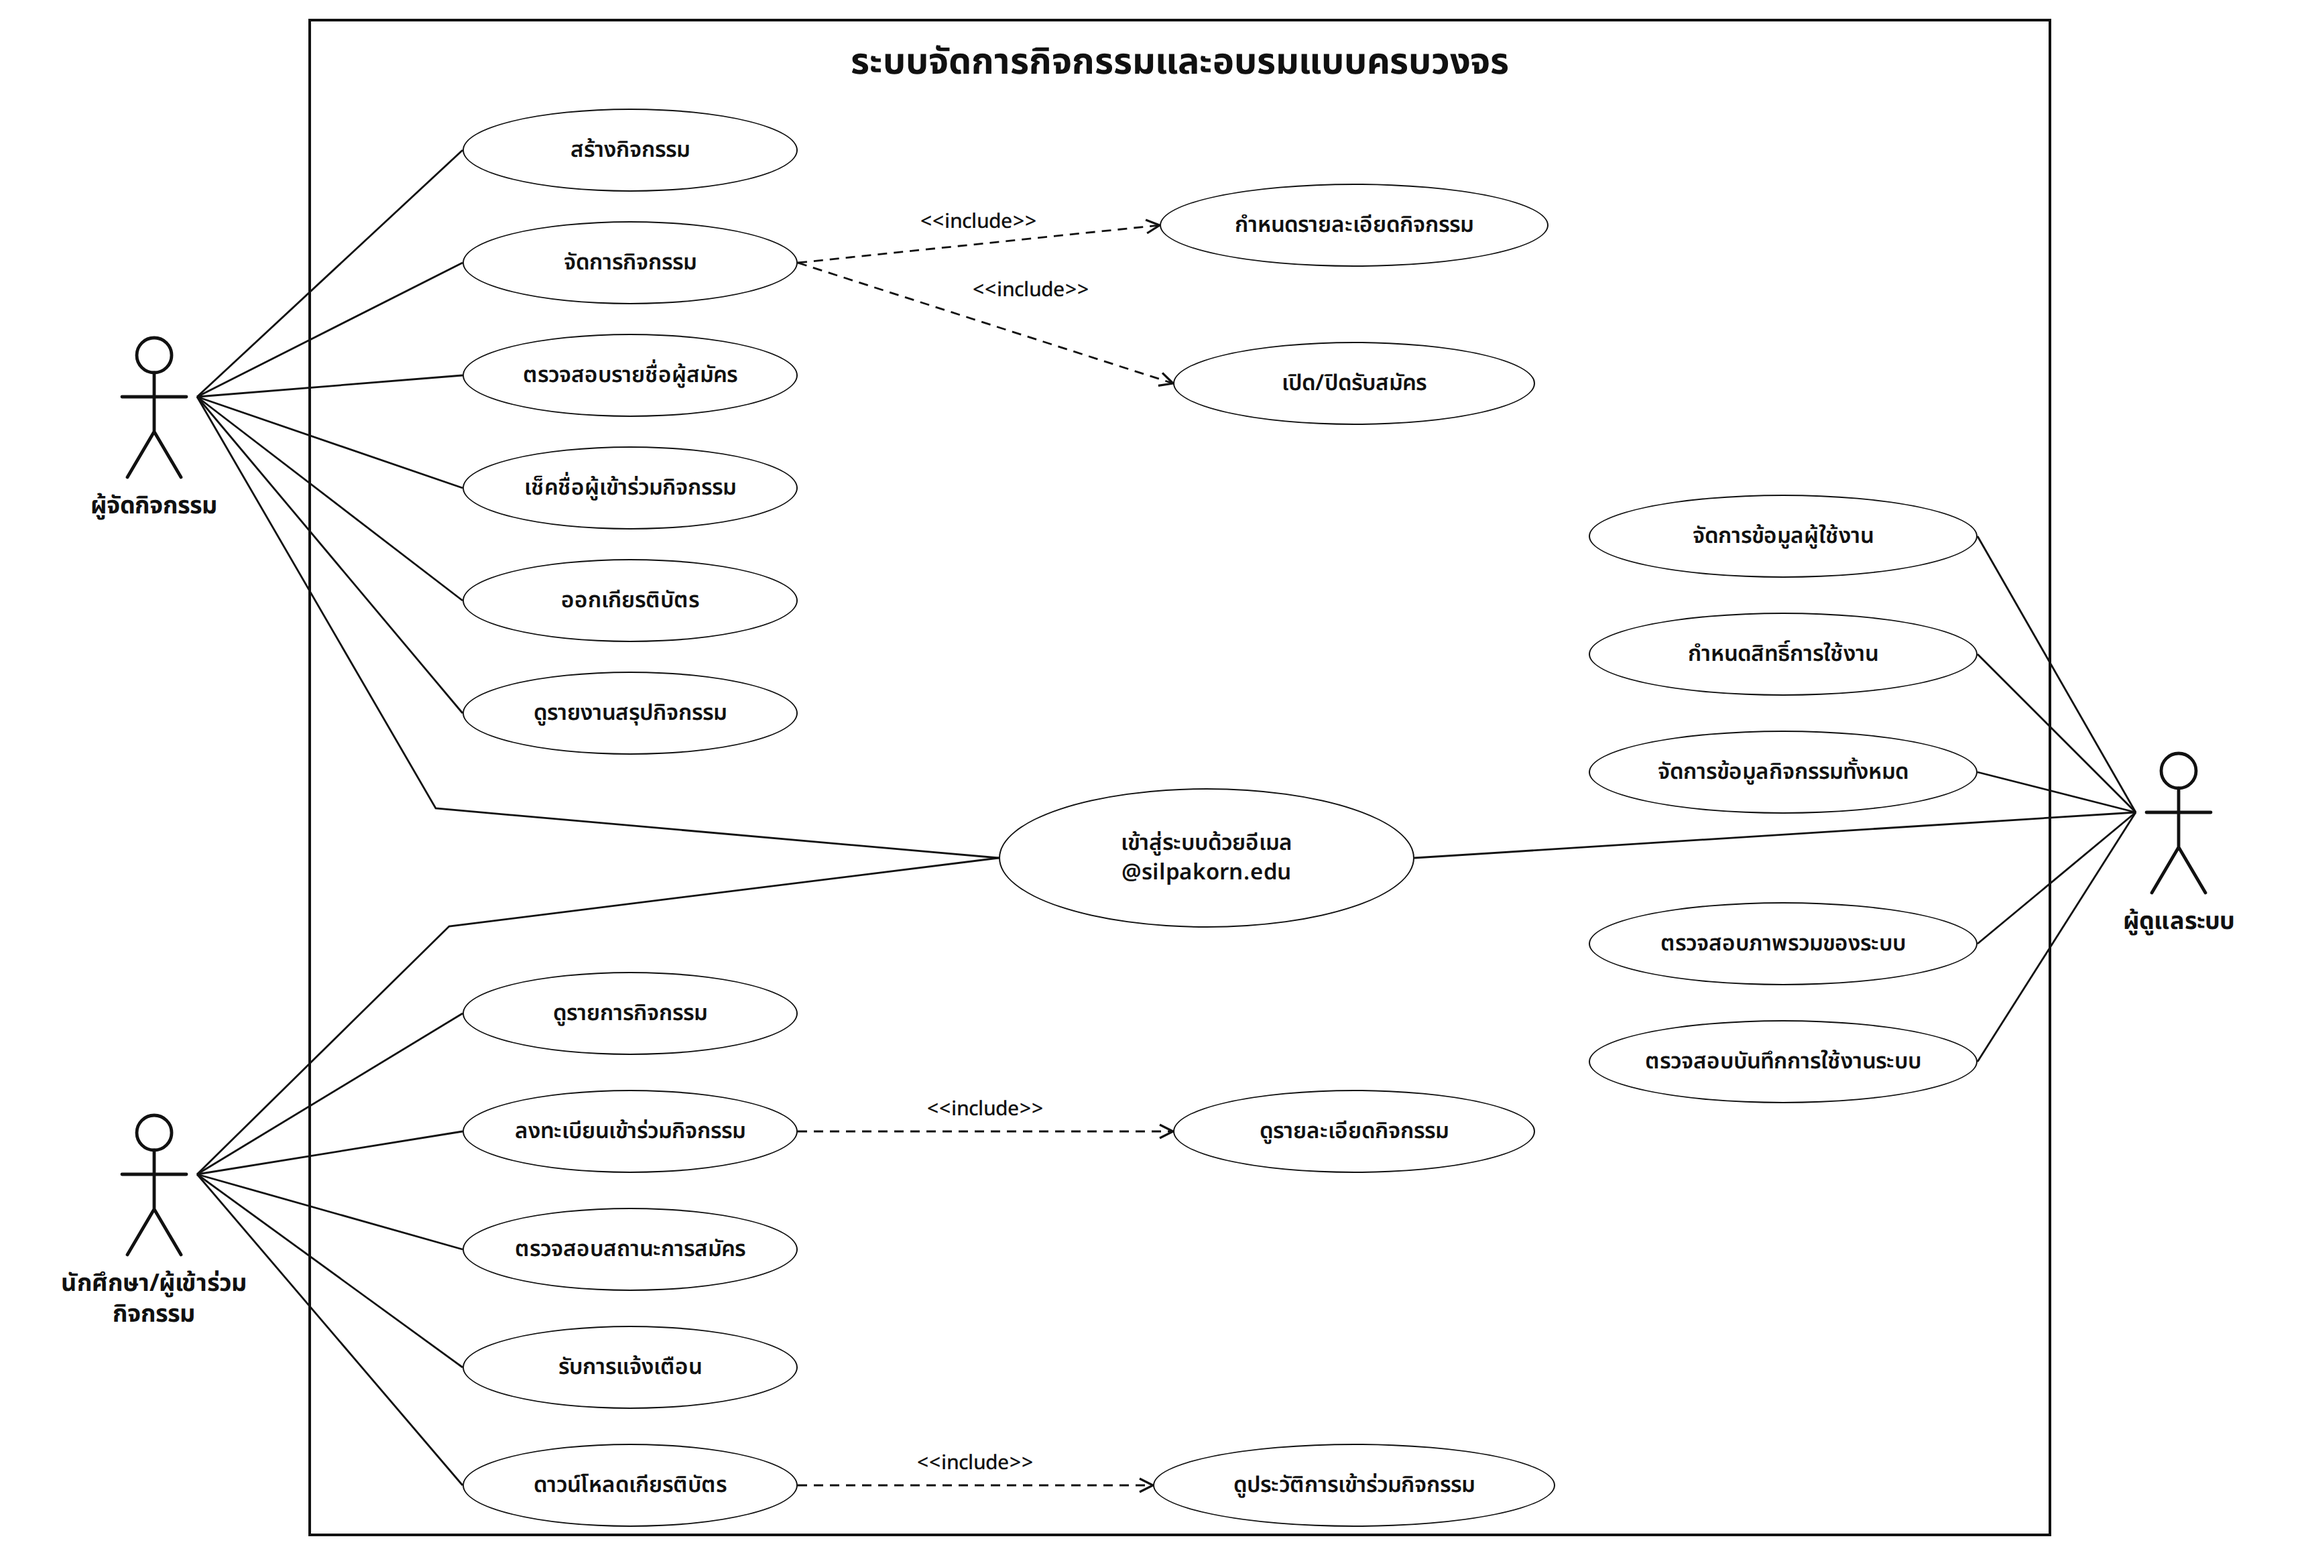
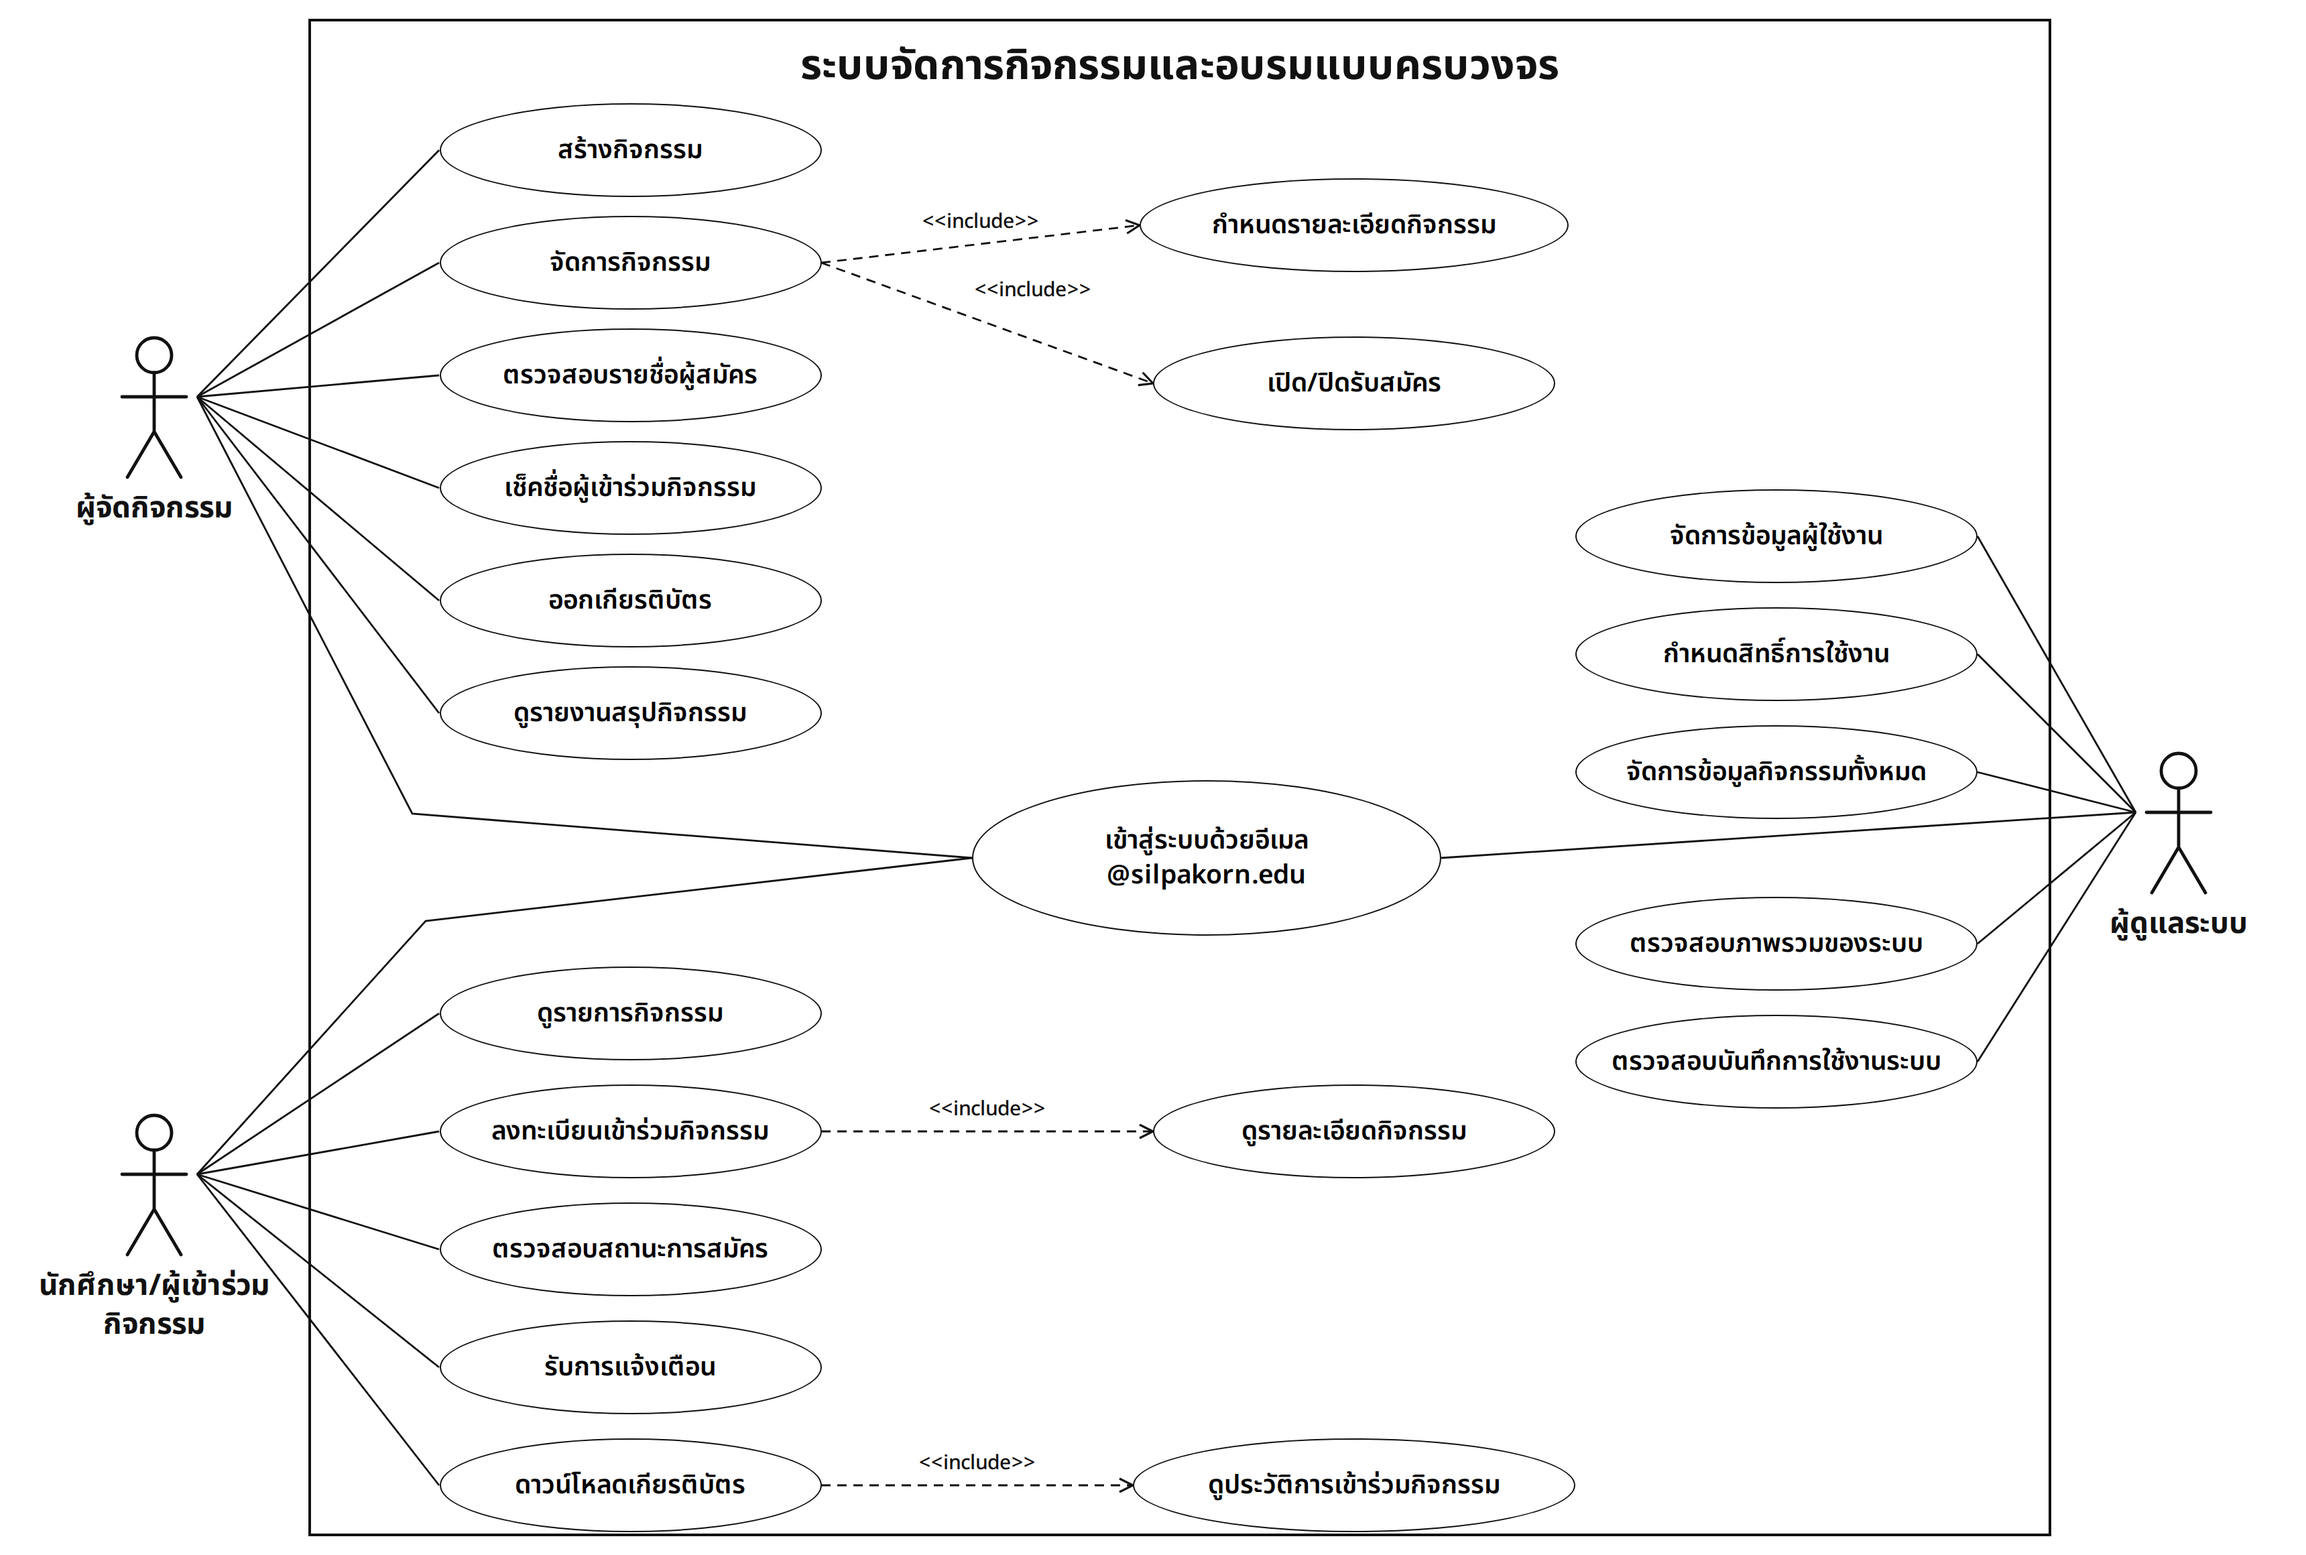
Use case diagram: text and ellipses sized like the report's original

diff --git a/docs/diagrams/src/use-case-simple.html b/docs/diagrams/src/use-case-simple.html
@@ -12,12 +12,12 @@
   .wires{position:absolute;inset:0;pointer-events:none;overflow:visible}
   .wire-label{font:500 15px 'Noto Sans Thai',sans-serif}
   .boundary{position:absolute;left:230px;top:14px;width:1300px;height:1132px;border:2px solid #111}
-  .boundary h2{position:absolute;left:0;right:0;top:10px;text-align:center;font-size:27px;font-weight:700}
+  .boundary h2{position:absolute;left:0;right:0;top:10px;text-align:center;font-size:31px;font-weight:700}
   .uc{position:absolute;display:flex;align-items:center;justify-content:center;text-align:center;border:1.6px solid #111;border-radius:50%;
-      background:#fff;font-size:16.5px;font-weight:600;line-height:1.35;padding:0 14px}
+      background:#fff;font-size:19.5px;font-weight:600;line-height:1.35;padding:0 14px;color:#000}
   .actor{position:absolute;width:190px;text-align:center}
   .actor svg{display:block;margin:0 auto}
-  .actor b{display:block;font-size:18px;margin-top:6px;font-weight:700;line-height:1.3}
+  .actor b{display:block;font-size:22px;margin-top:6px;font-weight:700;line-height:1.3}
 </style>
 </head>
 <body>
@@ -33,7 +33,7 @@
     C.insertAdjacentHTML('beforeend', `<div class="actor" id="${id}" style="left:${x}px;top:${y}px"><div class="fig">${STICK}</div><b>${name}</b></div>`);
   }
   // centre x, centre y, text, width, height
-  function uc(id, cx, cy, text, w = 250, h = 62) {
+  function uc(id, cx, cy, text, w = 285, h = 70) {
     C.insertAdjacentHTML('beforeend', `<div class="uc" id="${id}" style="left:${cx - w / 2}px;top:${cy - h / 2}px;width:${w}px;height:${h}px">${text}</div>`);
   }
 
@@ -43,18 +43,18 @@
 
   const ORG = ['สร้างกิจกรรม', 'จัดการกิจกรรม', 'ตรวจสอบรายชื่อผู้สมัคร', 'เช็คชื่อผู้เข้าร่วมกิจกรรม', 'ออกเกียรติบัตร', 'ดูรายงานสรุปกิจกรรม'];
   ORG.forEach((t, i) => uc('o' + i, 470, 112 + i * 84, t));
-  uc('o-detail', 1010, 168, 'กำหนดรายละเอียดกิจกรรม', 290);
-  uc('o-open', 1010, 286, 'เปิด/ปิดรับสมัคร', 270);
+  uc('o-detail', 1010, 168, 'กำหนดรายละเอียดกิจกรรม', 320);
+  uc('o-open', 1010, 286, 'เปิด/ปิดรับสมัคร', 300);
 
-  uc('login', 900, 640, 'เข้าสู่ระบบด้วยอีเมล<br>@silpakorn.edu', 310, 104);
+  uc('login', 900, 640, 'เข้าสู่ระบบด้วยอีเมล<br>@silpakorn.edu', 350, 116);
 
   const STU = ['ดูรายการกิจกรรม', 'ลงทะเบียนเข้าร่วมกิจกรรม', 'ตรวจสอบสถานะการสมัคร', 'รับการแจ้งเตือน', 'ดาวน์โหลดเกียรติบัตร'];
   STU.forEach((t, i) => uc('s' + i, 470, 756 + i * 88, t));
-  uc('s-detail', 1010, 844, 'ดูรายละเอียดกิจกรรม', 270);
-  uc('s-history', 1010, 1108, 'ดูประวัติการเข้าร่วมกิจกรรม', 300);
+  uc('s-detail', 1010, 844, 'ดูรายละเอียดกิจกรรม', 300);
+  uc('s-history', 1010, 1108, 'ดูประวัติการเข้าร่วมกิจกรรม', 330);
 
   const ADM = ['จัดการข้อมูลผู้ใช้งาน', 'กำหนดสิทธิ์การใช้งาน', 'จัดการข้อมูลกิจกรรมทั้งหมด', 'ตรวจสอบภาพรวมของระบบ', 'ตรวจสอบบันทึกการใช้งานระบบ'];
-  [400, 488, 576, 704, 792].forEach((y, i) => uc('a' + i, 1330, y, ADM[i], 290));
+  [400, 488, 576, 704, 792].forEach((y, i) => uc('a' + i, 1325, y, ADM[i], 300));
 
   window.drawWires = function () {
     const rc = C.getBoundingClientRect();
